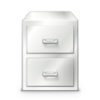
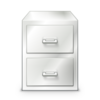
Resize images (better quality)
Re-obtained the images at the largest possible dimensions and then resized
them as necessary. Might compress them later, but compressing then resizing
seems to have made the images of lower quality than is optimal. Or it might
have something to do with the quality of the original images. In any case,
it's better now.

This commit also changes the printer statuses icon on the homepage.

Changed region(s): [[0.3, 0.84, 0.75, 0.87], [0.54, 0.72, 0.57, 0.75], [0.42, 0.72, 0.45, 0.75]]

diff --git a/_layouts/home.html b/_layouts/home.html
@@ -14,7 +14,7 @@
 		<div class="container">
 			<div class="row">
 				<div class="span4">
-				<img src="img/printing.png" alt="" />
+				<img src="img/printers.png" alt="" />
 				<h6>Printer statuses</h6>
 				</div>
 				<div class="span12">
